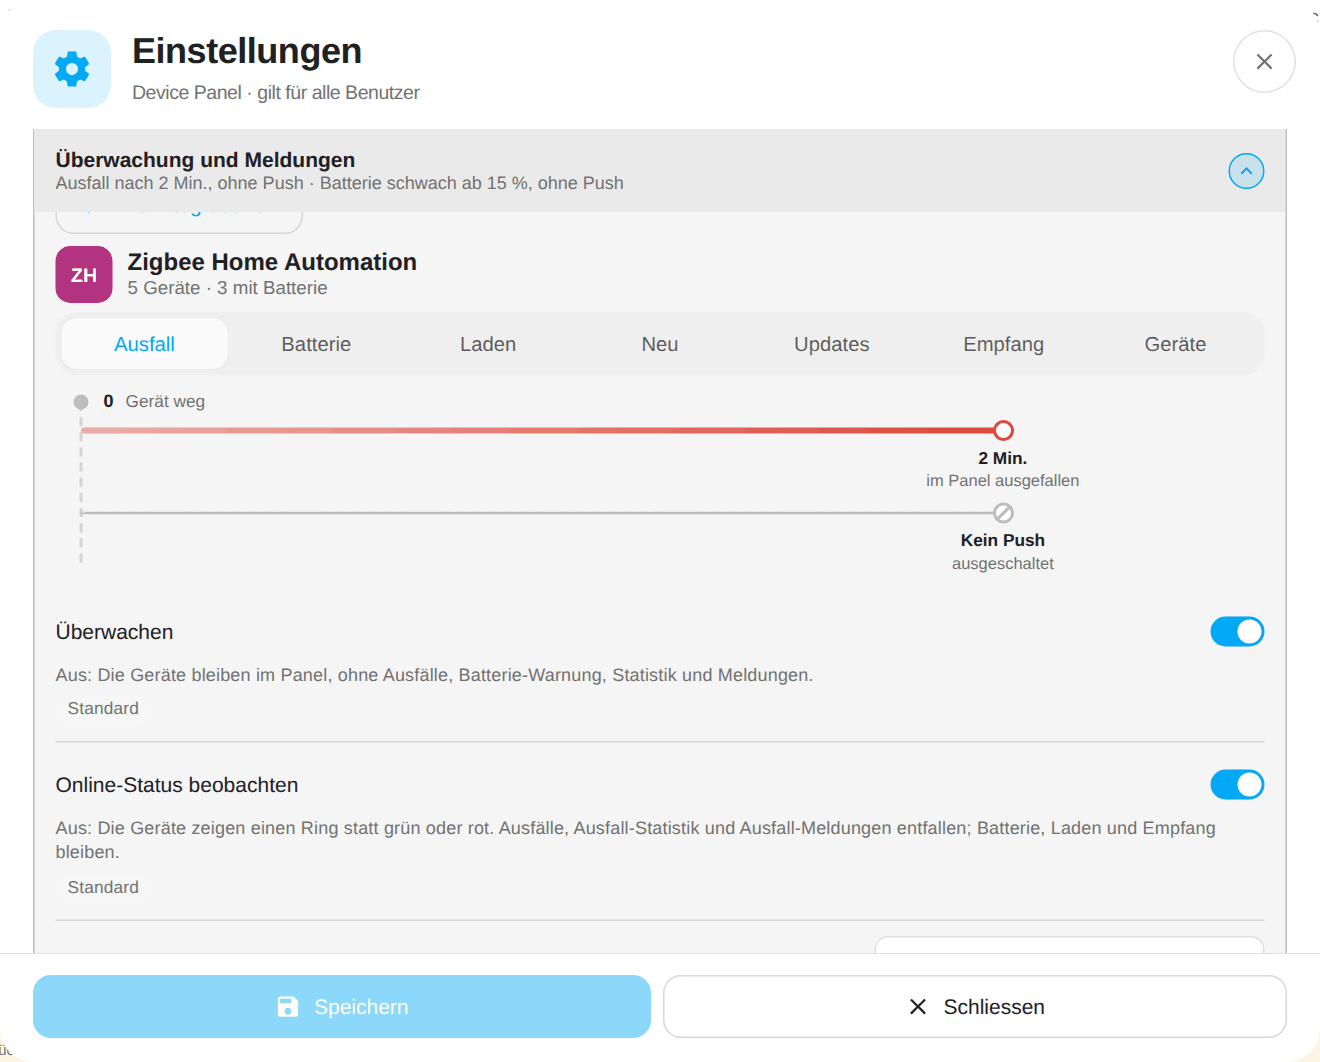
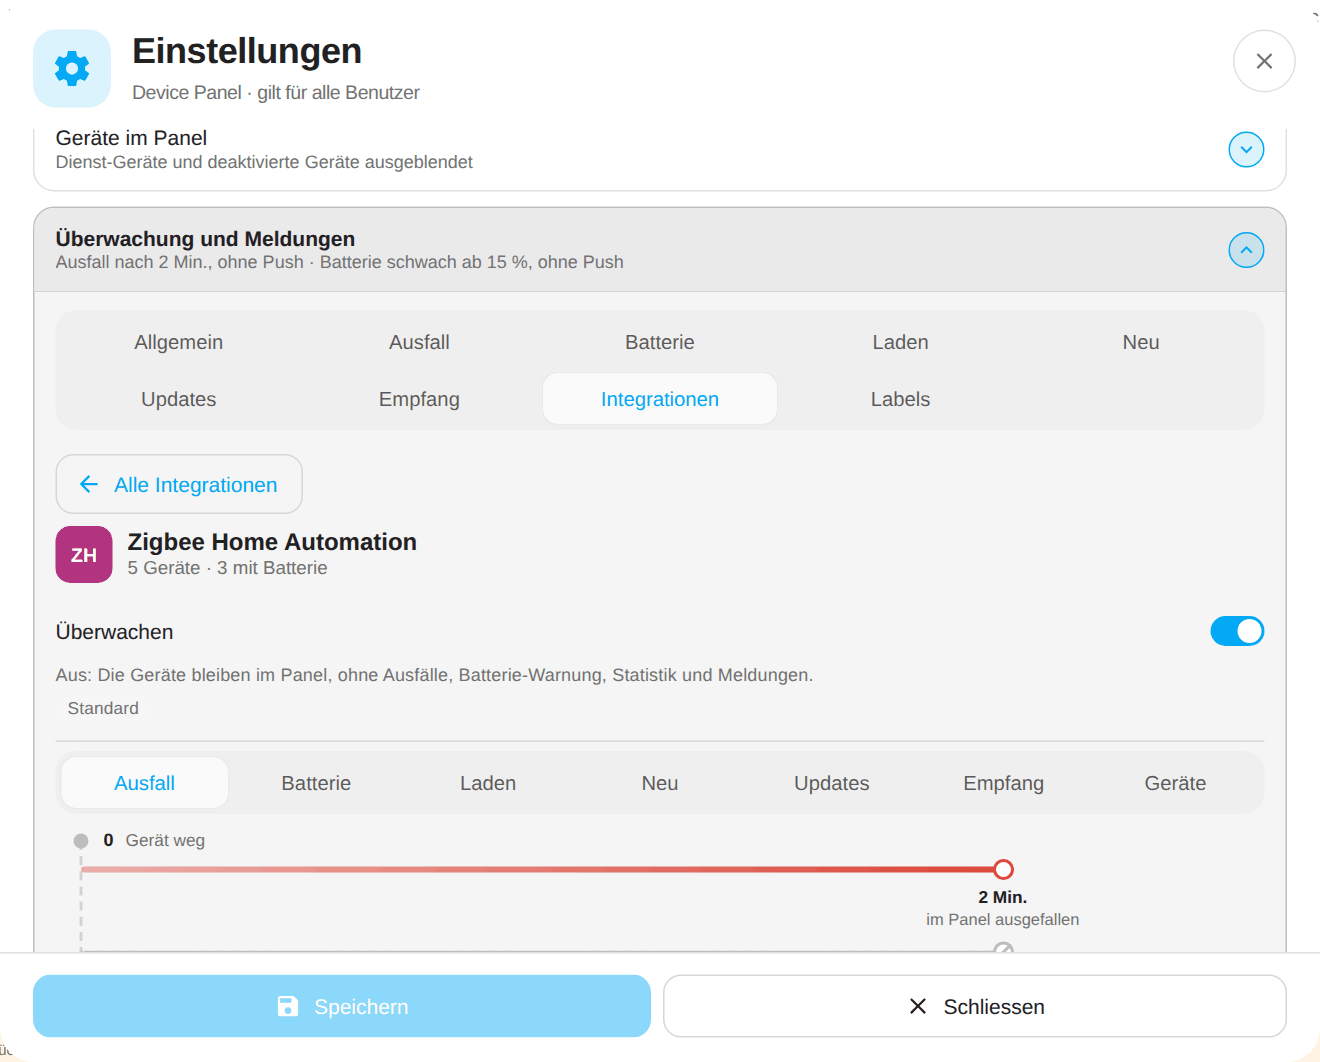
2.159.0: Überwachen über den Reitern, Knopf statt Link bei der KI
- "Überwachen" ist bei Gerät, Integration und Label eine eigene Zeile über
  der Reiterleiste (Mockup monitor-v1, A); Geräte-Popup graut bei "aus" aus
- Wizard-Karte eines Labels mit derselben Beschreibung
- "KI-Vorschläge in Home Assistant öffnen" als Knopf wie "Gerät in HA öffnen"
- Bilder device-settings, integ-detail, settings-labels neu

Claude-Session: https://claude.ai/code/session_01U1q7hu4Br2u4E6fFdEJMgU

diff --git a/custom_components/device_panel/panel/device-panel.js b/custom_components/device_panel/panel/device-panel.js
@@ -4426,6 +4426,8 @@ class DevicePanel extends HTMLElement {
     const range = mode === "own" ? this._devRangeError : null;
     const parts = { out: "", bat: "", chg: "", sig: "" };
     let outFirst = 0;
+    let monRow = "";
+    let monOff = false;
     // Herkunft unter jeder Einstellung (Variante A, docs/mockups/backlog-v1):
     // Etikett (Standard / Integration / Gerät) und was ohne die Wahl am Gerät
     // gälte; der Tooltip trägt die ausführliche Erklärung.
@@ -4453,7 +4455,10 @@ class DevicePanel extends HTMLElement {
       const swit = (name, on, label, lock) => `<label class="switch"><input type="checkbox" data-dlg="${name}" ${on ? "checked" : ""} ${lock ? "disabled" : ""} aria-label="${escape(label)}"><span></span></label>`;
       const line = (own_, label, control, tip, would) =>
         `<div class="opt${own_ ? " changed" : ""}"><div class="opt-line"><span class="opt-label">${escape(label)}</span>${control}</div>${origin(own_, od.integration, own_ || od.integration ? t("originDefaultWould", would) : "", tip)}</div>`;
-      parts.out += line(monOwn, t("optMonitor"), swit("dev-mon", monitored, t("optMonitor"), false), t("optMonitorShort"), inhOff ? t("offlineNone") : t("devMonOn"));
+      // "Überwachen" gilt für alle Reiter und steht darum über der Reiterleiste (seit 2.159.0, docs/mockups/monitor-v1, A)
+      monRow = line(monOwn, t("optMonitor"), swit("dev-mon", monitored, t("optMonitor"), false), t("optMonitorShort"), inhOff ? t("offlineNone") : t("devMonOn"));
+      monRow = monRow.replace('<div class="opt-origin">', `<div class="opt-short">${escape(t("optMonitorShort"))}</div><div class="opt-origin">`);
+      monOff = !monitored;
       parts.out += line(statOwn, t("optStatus"), swit("dev-stat", !noStatus, t("optStatus"), !monitored), t("optStatusShort"), inhNo ? t("offlineNoStatus") : t("devStatOn"));
       const timeLocked = !monitored || noStatus;
       parts.out += `<div class="${timeLocked ? "mon-dis" : ""}"><div class="opt${timeOwn ? " changed" : ""}"><div class="opt-line"><span class="opt-label">${escape(t("devOffline"))}</span>${sel(
@@ -4708,7 +4713,7 @@ class DevicePanel extends HTMLElement {
       .map(([id, key]) => `<button type="button" role="tab" class="sub-tab${id === cur ? " on" : ""}${ownTab[id] ? " chg" : ""}" data-dlg="stab" data-stab="${id}" aria-selected="${id === cur}">${escape(t(key))}</button>`)
       .join("")}</div>`;
     const err = this._devSetError ? `<div class="opt-error">${escape(t("devSaveError"))} ${escape(this._devSetError)}</div>` : "";
-    return `<div class="dev-set">${tabBar}<div class="lvl-body" role="tabpanel">${bodies[cur]}</div>${err}</div>`;
+    return `<div class="dev-set">${monRow}<div class="${monOff ? "mon-dis" : ""}">${tabBar}</div><div class="lvl-body${monOff ? " mon-dis" : ""}" role="tabpanel">${bodies[cur]}</div>${err}</div>`;
   }
 
   // Typ: im Reiter "Einstellungen" wählbar, in der Übersicht nur Text (seit 1.37.0).
@@ -8666,11 +8671,12 @@ class DevicePanel extends HTMLElement {
     const empty = (key) => `<div class="opt-short mon-empty">${escape(t(key))}</div>`;
     const reasonOf = (excluded, topic) => (excluded ? t("tlIntegOff") : tgt(topic) ? t("tlSwitchedOff") : t("tlNoTarget"));
     // Ausfall
+    // "Überwachen" gilt für alle Reiter und steht darum über der Reiterleiste (seit 2.159.0, docs/mockups/monitor-v1, A)
+    const monHtml = opt(!same(unmon, (saved.offline_after_integrations || {})[dom] === "off"), t("optMonitor"),
+      `<label class="switch"><input type="checkbox" data-imon="${escape(dom)}" ${unmon ? "" : "checked"} aria-label="${escape(`${t("optMonitor")}: ${item.name}`)}"><span></span></label>`,
+      origin(unmon), `<div class="opt-short">${escape(t("optMonitorShort"))}</div>`, " mon-row");
     const outHtml =
       tl +
-      opt(!same(unmon, (saved.offline_after_integrations || {})[dom] === "off"), t("optMonitor"),
-        `<label class="switch"><input type="checkbox" data-imon="${escape(dom)}" ${unmon ? "" : "checked"} aria-label="${escape(`${t("optMonitor")}: ${item.name}`)}"><span></span></label>`,
-        origin(unmon), unmon ? "" : `<div class="opt-short">${escape(t("optMonitorShort"))}</div>`) +
       opt(!same(nostat, (saved.offline_after_integrations || {})[dom] === "nostatus"), t("optStatus"),
         `<label class="switch"><input type="checkbox" data-istatus="${escape(dom)}" ${nostat ? "" : "checked"} ${unmon ? "disabled" : ""} aria-label="${escape(`${t("optStatus")}: ${item.name}`)}"><span></span></label>`,
         origin(nostat), `<div class="opt-short">${escape(t("optStatusShort"))}</div>`, unmon ? " mon-dis" : "") +
@@ -8901,7 +8907,7 @@ class DevicePanel extends HTMLElement {
     const sub = isLabel ? t("labelDevs", item.devices) : t("integDevs", item.devices, item.batDevices);
     return `<button type="button" class="iback" data-set="${isLabel ? "label" : "integ"}" data-key="">${mdi("arrowLeft", 18)}${escape(t(isLabel ? "labelBack" : "integBack"))}</button>
       <div class="ihead">${this._ibadge(dom, item.name)}<div><b>${escape(item.name)}</b><small>${escape(sub)}${isLabel && this._labelInfo(labelId)?.missing ? ` · ${escape(t("labelMissing"))}` : ""}</small></div></div>
-      ${tabBar}<div class="lvl-body" role="tabpanel">${bodies[cur]}</div>
+      ${monHtml}${tabBar}<div class="lvl-body" role="tabpanel">${bodies[cur]}</div>
       <div class="integ-reset"><button type="button" class="ovr-all" data-set="integ-reset" data-key="${escape(dom)}" ${anyOwn || updOwn ? "" : "disabled"}>${mdi("reset", 15)}${escape(t("integReset"))}</button></div>${labelFoot}`;
   }
 
@@ -9354,7 +9360,7 @@ class DevicePanel extends HTMLElement {
         // Ohne KI-Aufgabe (in Home Assistant unter "KI-Vorschläge" gewählt oder hier) lässt sich die Funktion nicht einschalten (seit 2.38.0);
         // schon Eingeschaltetes bleibt, mit Hinweis. Der Link führt zu /config/ai.
         row("ai_assessment", t("optAi"), sw("ai_assessment", t("optAi"), aiBlocked), t("optAiShort"), t("optAiInfo"), aiReady ? null : t(d.ai_assessment ? "aiLost" : "aiNotReady")) +
-        `<div class="opt-link"><button type="button" class="set-link" data-ai-open>${escape(t("aiOpenHa"))}<span class="cbtn" aria-hidden="true">${mdi("chevronRight", 16)}</span></button></div>` +
+        `<div class="opt-link"><button type="button" class="qbtn" data-ai-open>${mdi("open", 17)}<span class="q-t">${escape(t("aiOpenHa"))}</span></button></div>` +
         (d.ai_assessment
           ? ttl("ttlAiTask") + row(
               "ai_task_entity",

diff --git a/custom_components/device_panel/panel/wizard.js b/custom_components/device_panel/panel/wizard.js
@@ -807,7 +807,7 @@ export class WizardUi {
     const dim = c.mon ? "" : " dim";
     const outDim = c.mon && c.status ? "" : "dim";
     return `<div class="wz-msg on wz-lcard"><div class="wz-li">${this.host._ibadge(`${LABEL_PREFIX}${id}`, this.labelName(id))}<div class="wz-nm">${escape(this.labelName(id))}<small>${escape(t("labelDevs", (this.s.data.labels.find((l) => l.id === id) || {}).devices || 0))}</small></div><button type="button" class="dlg-btn wz-lrm" data-wz-lrm="${escape(id)}">${mdi("close", 16)}${escape(t("wzLRemove"))}</button></div>
-      ${row("eye", t("optMonitor"), t("wzLMonSub"), sw("mon", c.mon, t("optMonitor")))}
+      ${row("eye", t("optMonitor"), t("optMonitorShort"), sw("mon", c.mon, t("optMonitor")))}
       <div class="${dim.trim()}">${row("circleOutline", t("optStatus"), t("wzLNsSub"), sw("status", c.status, t("optStatus"), !c.mon))}
       <div class="${outDim}">${row("pulse", t("optOfflineAfter"), "", timeSel("after", t("optOfflineAfter"), c.after, t("wzLStd")))}
       ${row("timer", t("optDelay"), "", timeSel("delay", t("optDelay"), c.delay, t("wzLStd")))}

diff --git a/custom_components/device_panel/panel/strings.js b/custom_components/device_panel/panel/strings.js
@@ -2063,7 +2063,6 @@ export const STRINGS = {
     wzLPick: "Label wählen …",
     wzLDone: "Eingerichtet",
     wzLStd: "Standard",
-    wzLMonSub: "Aus: Die Geräte bleiben sichtbar, ohne Ausfälle, Statistik und Meldungen.",
     wzLNsSub: "Aus: Ring statt grün oder rot, keine Ausfälle und Ausfall-Meldungen. Batterie und Empfang bleiben.",
     wzLRemove: "Entfernen",
     wzLLater: "Alle weiteren Wahlen (Empfang, Typ, Laden im Detail) findest du später in den Einstellungen unter \"Labels\".",
@@ -4553,7 +4552,6 @@ export const STRINGS = {
     wzLPick: "Pick a label …",
     wzLDone: "Set up",
     wzLStd: "Default",
-    wzLMonSub: "Off: the devices stay visible, without outages, statistics and notifications.",
     wzLNsSub: "Off: ring instead of green or red, no outages or outage notifications. Battery and signal stay.",
     wzLRemove: "Remove",
     wzLLater: "All further choices (signal, type, charging in detail) are in the settings later under \"Labels\".",

diff --git a/custom_components/device_panel/panel/styles.js b/custom_components/device_panel/panel/styles.js
@@ -697,8 +697,6 @@ button.ai-head:focus-visible { outline: 2px solid #7c4dff; outline-offset: -2px;
 .opt.changed > .opt-line .opt-input { border-color: var(--dp-primary); box-shadow: inset 0 0 0 1px var(--dp-primary); }
 .opt.invalid > .opt-line .opt-input { border-color: var(--dp-error); box-shadow: inset 0 0 0 1px var(--dp-error); }
 .opt-link { margin: -2px 0 6px; }
-.set-link { display: inline-flex; align-items: center; gap: 4px; padding: 4px 0; border: 0; background: none; color: var(--dp-primary); font: inherit; font-size: 13px; font-weight: 500; cursor: pointer; }
-.set-link:hover { text-decoration: underline; }
 .opt-error { margin-top: 3px; color: var(--dp-error); font-size: 12px; line-height: 1.35; }
 /* Auswahl plus Uhrzeit nebeneinander (Batterie täglich um …). */
 .opt-pair { display: flex; flex: 1 1 auto; flex-wrap: wrap; align-items: center; justify-content: flex-end; gap: 8px; min-width: 0; }

diff --git a/custom_components/device_panel/const.py b/custom_components/device_panel/const.py
@@ -13,7 +13,7 @@ PANEL_HTML_FILE = "panel.html"
 STATIC_URL_PATH = f"/{DOMAIN}"
 PANEL_STATIC_URL_PATH = f"{STATIC_URL_PATH}/panel"
 # Cache-Buster: bei jeder Änderung unter panel/ von Hand erhöhen.
-PANEL_VERSION = "373"
+PANEL_VERSION = "374"
 PANEL_PAGE_URL = f"{PANEL_STATIC_URL_PATH}/{PANEL_HTML_FILE}?v={PANEL_VERSION}"
 
 # Mitgeliefertes Bild für Push-Meldungen (Companion-App, "icon_url"), wie in

diff --git a/CHANGELOG.de.md b/CHANGELOG.de.md
@@ -7,6 +7,17 @@ Alle nennenswerten Änderungen an dieser Integration stehen in dieser Datei.
 Das Format folgt [Keep a Changelog](https://keepachangelog.com/de/1.1.0/),
 die Versionsnummern folgen [Semantic Versioning](https://semver.org/lang/de/).
 
+## [2.159.0] - 2026-10-27
+
+"Überwachen" steht über den Reitern, weil es für alle gilt.
+
+### Geändert
+
+- **"Überwachen" über den Reitern:** Im Geräte-Popup (Einstellungen), bei einer Integration und bei einem Label ist der Schalter "Überwachen" jetzt eine eigene Zeile über der Reiterleiste (Ausfall, Batterie, Laden, Empfang, ...), mit Beschreibung und Herkunft. Er schaltet Ausfälle, Batterie-Warnung, Laden, Empfang, Statistik und Meldungen gemeinsam aus und versteckt sich darum nicht mehr im ersten Reiter. "Online-Status beobachten" und "Ausgefallen nach" bleiben im Reiter "Ausfall".
+- **Geräte-Popup bei "Überwachen" aus:** Die Reiter und ihre Zeilen sind ausgegraut, wie schon bei einer Integration.
+- **Einrichtungsassistent, Karte eines Labels:** "Überwachen" hat dieselbe Beschreibung.
+- **Einstellungen › KI-Einschätzung:** "KI-Vorschläge in Home Assistant öffnen" ist ein Knopf wie "Gerät in HA öffnen" statt eines Links mit Pfeil.
+
 ## [2.158.2] - 2026-10-27
 
 Die Rakete des Einrichtungsassistenten bewegt sich auch bei "Bewegung reduzieren".
@@ -5121,6 +5132,7 @@ Erste Vorabversion.
   GitHub Actions für die Prüfungen von HACS und hassfest sowie die Tests.
 
 [2.6.0]: https://github.com/Diegofuego871/ha-device-panel/releases/tag/v2.6.0
+[2.159.0]: https://github.com/Diegofuego871/ha-device-panel/releases/tag/v2.159.0
 [2.158.2]: https://github.com/Diegofuego871/ha-device-panel/releases/tag/v2.158.2
 [2.158.1]: https://github.com/Diegofuego871/ha-device-panel/releases/tag/v2.158.1
 [2.158.0]: https://github.com/Diegofuego871/ha-device-panel/releases/tag/v2.158.0

diff --git a/CHANGELOG.md b/CHANGELOG.md
@@ -7,6 +7,17 @@ All notable changes to this integration are documented in this file.
 The format is based on [Keep a Changelog](https://keepachangelog.com/en/1.1.0/),
 and this project adheres to [Semantic Versioning](https://semver.org/).
 
+## [2.159.0] - 2026-10-27
+
+"Monitor" sits above the tabs, as it applies to all of them.
+
+### Changed
+
+- **"Monitor" above the tabs:** in the device pop-up (Settings), in an integration and in a label the switch "Monitor" is now its own row above the tab bar (Outage, Battery, Charging, Signal, ...), with description and origin. It switches off outages, battery warning, charging, signal, statistics and notifications together, so it no longer hides in the first tab. "Watch online status" and "Offline after" stay in the tab "Outage".
+- **Device pop-up with "Monitor" off:** the tabs and their rows are greyed out, as already in an integration.
+- **Setup wizard, card of a label:** "Monitor" uses the same description.
+- **Settings › AI assessment:** "Open AI suggestions in Home Assistant" is a button like "Open device in HA" instead of a link with an arrow.
+
 ## [2.158.2] - 2026-10-27
 
 The rocket of the setup wizard also moves with "Reduce motion".
@@ -5020,6 +5031,7 @@ First pre-release.
   GitHub Actions for HACS/hassfest validation and tests.
 
 [2.6.0]: https://github.com/Diegofuego871/ha-device-panel/releases/tag/v2.6.0
+[2.159.0]: https://github.com/Diegofuego871/ha-device-panel/releases/tag/v2.159.0
 [2.158.2]: https://github.com/Diegofuego871/ha-device-panel/releases/tag/v2.158.2
 [2.158.1]: https://github.com/Diegofuego871/ha-device-panel/releases/tag/v2.158.1
 [2.158.0]: https://github.com/Diegofuego871/ha-device-panel/releases/tag/v2.158.0

diff --git a/README.md b/README.md
@@ -137,7 +137,7 @@ Labels are the labels you give devices in Home Assistant (Settings › Areas, la
 
 Some devices report only now and then, for example Bluetooth sensors, and would look permanently offline. "Without online status" keeps them monitored for battery, charging, signal and updates, but they get no online status, no outages, no outage statistics and no outage notifications.
 
-- **Where:** the same three rows "Monitor", "Watch online status" and "Offline after" in the tab "Outage" of an integration, of a label and in the Settings of a device pop-up. "Watch online status: off" means the same everywhere. On a device, an own time switches the status on again
+- **Where:** the same rows in an integration, in a label and in the Settings of a device pop-up: "Monitor" above the tabs (it applies to all of them) and "Watch online status" and "Offline after" in the tab "Outage". "Watch online status: off" means the same everywhere. On a device, an own time switches the status on again
 - **Order of precedence:** device › label › integration; with several labels the strictest applies: "Do not monitor", then "No online status", then a time
 - **In the panel:** a grey ring instead of the dot, a row in the availability tile ("N without online status") and the filter chip "No online status" (can be hidden and moved like all chips)
 - **Setup wizard:** in the step "Notifications", tab "Outage", a ring switch per integration and device, and the switch on the card of a label
